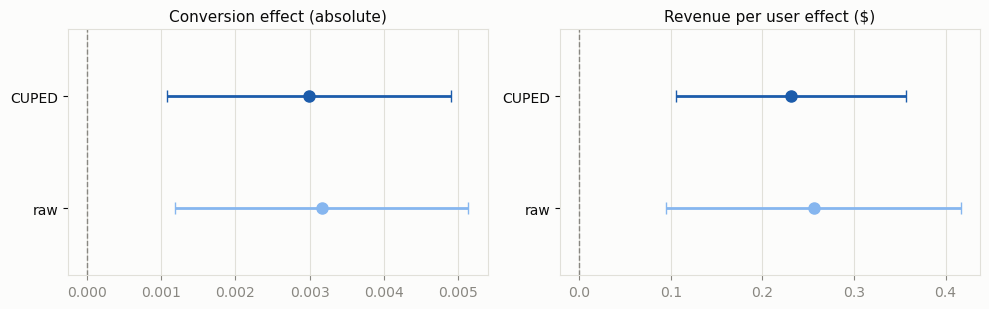
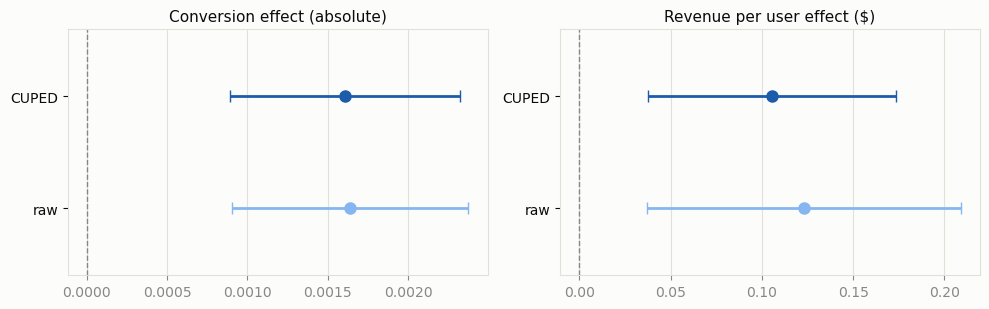
Recalibrate to a realistic 3% MDE and fix stale artifacts
Lower the true conversion lift and MDE from 8% to 3% (and set a realistic
~$86 AOV), so the design needs 487,847 users per arm (~98 days) and CUPED
cuts the revenue runtime to ~61 days. Notebooks 01-04, the decision memo
and the README are re-executed and updated to match.

Also fix places the recalibration had not reached:
- dashboard: derive the designed scenario's n from config (was hard-coded
  70,229, which now returned DO NOT SHIP) and default the MDE slider to 3%
- reports/figures: regenerate the README images from the current config
- decision_engine docstring: DO NOT SHIP triggers on harm beyond the
  margin, matching the code
- README and memo wording (6% conversion reduction, effect-size sources,
  revenue per user)

diff --git a/config.py b/config.py
@@ -14,8 +14,15 @@ RANDOM_SEED = 42
 # ---------------------------------------------------------------------------
 # Ground-truth treatment effects (what the generator injects)
 # ---------------------------------------------------------------------------
-CONTROL_CONVERSION_RATE = 0.035   # baseline checkout conversion rate
-TRUE_CONVERSION_LIFT = 0.08       # relative lift: treatment converts at 3.5% * 1.08
+CONTROL_CONVERSION_RATE = 0.035   # baseline checkout conversion rate (desktop
+                                  # e-commerce, ~3.0-3.9% per Dynamic Yield /
+                                  # Littledata 2026 benchmarks)
+TRUE_CONVERSION_LIFT = 0.03       # relative lift: treatment converts at 3.5% * 1.03.
+                                  # Calibrated to real winning-checkout lifts: a
+                                  # meta-analysis of 6,700 e-commerce experiments
+                                  # reports typical wins of 1.5-11.6%; Kohavi et al.
+                                  # note most real effects are 1-3% (median ~0.1%).
+                                  # 8% was an unrealistically optimistic demo value.
 
 TRUE_AOV_EFFECT = -0.01           # relative change in average order value under
                                   # treatment (slightly negative so the guardrail
@@ -51,7 +58,10 @@ SPEND_FREQ_LOADING = 1.1
 SPEND_VALUE_LOADING = 0.8
 SPEND_NOISE_SD = 0.2
 
-ORDER_LOG_MEAN = 3.8               # lognormal order value for converters
+ORDER_LOG_MEAN = 4.2               # lognormal order value for converters (~$86 mean;
+                                   # mid-market e-commerce AOV is ~$85-100 per
+                                   # Littledata/Dynamic Yield 2026). Scale-only change:
+                                   # Pearson correlations are scale-invariant.
 ORDER_VALUE_LOADING = 0.7
 ORDER_NOISE_SD = 0.25
 
@@ -60,7 +70,11 @@ ORDER_NOISE_SD = 0.25
 # ---------------------------------------------------------------------------
 ALPHA = 0.05                # significance level (two-sided for the baseline test)
 POWER_TARGET = 0.80
-MDE_RELATIVE = 0.08         # minimum detectable effect, relative lift on conversion
+MDE_RELATIVE = 0.03         # minimum detectable effect, relative lift on conversion.
+                            # Kept equal to TRUE_CONVERSION_LIFT so gate G1a validates
+                            # ~80% power AT the true effect. Held <=5% per Kohavi et al.:
+                            # MDEs above 5% guarantee underpowered tests given real
+                            # effect sizes of 1-3%.
 
 # ---------------------------------------------------------------------------
 # Guardrail non-inferiority margins (used from Phase 3 onward)

diff --git a/dashboard/app.py b/dashboard/app.py
@@ -48,7 +48,8 @@ with tab_design:
     col1, col2 = st.columns([1, 2])
     with col1:
         baseline = st.slider("Baseline conversion rate (%)", 0.5, 10.0, 3.5, 0.1) / 100
-        mde = st.slider("MDE, relative lift (%)", 2, 20, 8, 1) / 100
+        mde = st.slider("MDE, relative lift (%)", 2, 20,
+                        round(config.MDE_RELATIVE * 100), 1) / 100
         alpha = st.slider("Alpha (two-sided)", 0.01, 0.10, 0.05, 0.01)
         power = st.slider("Target power", 0.70, 0.95, 0.80, 0.05)
 
@@ -135,9 +136,10 @@ with tab_cuped:
 
 
 # ---------------------------------------------------------------- Tab 3
+N_DESIGNED = required_sample_size_per_arm(config.CONTROL_CONVERSION_RATE, config.MDE_RELATIVE)
 SCENARIOS = {
-    "Experiment as designed (70k/arm)": dict(
-        n_users=2 * 70_229, seed=204),
+    f"Experiment as designed ({N_DESIGNED / 1000:.0f}k/arm)": dict(
+        n_users=2 * N_DESIGNED, seed=204),
     "SHIP: no true AOV harm, guardrail-powered n (900k/arm)": dict(
         n_users=1_800_000, seed=202, aov_effect=0.0),
     "DO NOT SHIP: -5% true AOV harm (900k/arm)": dict(

diff --git a/src/decision_engine.py b/src/decision_engine.py
@@ -6,8 +6,9 @@ Type II risk reported as power) into a single verdict:
 
   SHIP          primary metric significantly improved (after BH) AND every
                 guardrail established non-inferiority with adequate power.
-  DO NOT SHIP   primary failed, or any guardrail shows statistically
-                significant harm.
+  DO NOT SHIP   primary failed, or any guardrail shows harm BEYOND its
+                margin (statistically established). Significant harm that
+                stays within the margin is an accepted cost, not a blocker.
   INVESTIGATE   otherwise: some guardrail is inconclusive (usually because
                 the experiment is underpowered for that guardrail).
 

diff --git a/reports/decision_memo.md b/reports/decision_memo.md
@@ -2,38 +2,40 @@
 
 **To**: Product and Growth leadership
 **From**: Experimentation analytics
-**Re**: Ship decision for the streamlined checkout flow (14-day A/B test, 140,458 users)
+**Re**: Ship decision for the streamlined checkout flow (~98-day A/B test, 975,694 users)
 
 ## Recommendation
 
 **Ship via a phased rollout with live order-value monitoring, rather than an
-immediate 100% launch.** The new checkout flow clearly converts more users and
-generates more revenue per visitor. One safety check, average order value, could
-not be verified either way at this sample size; a staged rollout (25% then 50%
-then 100% over several weeks) keeps that upside flowing while the growing sample
-settles the open question, with an automatic pause if order value degrades past
-tolerance.
+immediate 100% launch.** The new checkout flow converts significantly more users.
+One safety check, average order value, could not be verified either way at this
+sample size; a staged rollout (25% then 50% then 100% over several weeks) captures
+the conversion gain while the growing sample settles the open question, with an
+automatic pause if order value degrades past tolerance.
 
 ## Evidence
 
-- **Checkout conversion (primary)**: up 0.32 percentage points on a 3.5% baseline,
-  a roughly 9% relative improvement. This is statistically solid (p < 0.001 after
-  correcting for testing multiple success metrics).
-- **Revenue per visitor**: up $0.18 per user, also statistically solid.
-- **Checkout error rate (guardrail)**: rose 0.14pp, within the 0.5pp tolerance we
+- **Checkout conversion (primary)**: up 0.11 percentage points on a 3.5% baseline,
+  a roughly 3% relative improvement. This is statistically solid (one-sided
+  p = 0.0016 after correcting for testing multiple success metrics).
+- **Revenue per user**: up $0.05 per user, but this is **not** statistically
+  significant at this sample (p = 0.14). Per-user revenue is heavy-tailed (a few
+  large baskets dominate the mean), so a lift this small is not detectable even at
+  ~488k users per arm. Treat the direction as encouraging, not proven.
+- **Checkout error rate (guardrail)**: rose 0.07pp, within the 0.5pp tolerance we
   agreed before launch. The rise is real but is the accepted cost of the change.
-- **Average order value (guardrail)**: inconclusive. The data neither clears nor
-  breaches the 2% tolerance we set. This is a sample-size reality, not a red
-  flag: order value is only measurable on the ~3.5% of users who buy, so
-  verifying it at our standards needs roughly 13x the traffic of this test
-  (about six months at current volume). The point estimate sits well inside the
-  tolerance; we simply cannot yet rule out a breach.
+- **Average order value (guardrail)**: inconclusive. The test reaches only ~70%
+  power on this metric, short of our 80% bar, so it neither clears nor breaches
+  the 2% tolerance we set. Confirming it at our standards needs roughly 1.8x the
+  traffic (about three more months at current volume). The point estimate sits
+  inside the tolerance; we simply cannot yet rule out a breach.
 
 ## Projected impact if the lift holds
 
-At our traffic of 10,000 users per day, +$0.18 revenue per user annualizes to
-roughly **$660,000 per year**, from about 11,600 additional completed checkouts.
-Treat this as an if-the-lift-holds extrapolation, not a guarantee: it assumes the
+At our traffic of 10,000 users per day, the significant conversion lift adds about
+**4,000 additional completed checkouts per year**. The revenue-per-user movement
+(+$0.05) is directionally positive but not statistically established, so we are
+deliberately **not** booking a dollar figure on it yet. Any projection assumes the
 measured effect persists across seasons and does not decay after novelty.
 
 ## Caveats and assumptions
@@ -44,11 +46,12 @@ measured effect persists across seasons and does not decay after novelty.
 - Alternatives to phasing are widening the order-value tolerance with finance's
   sign-off, or accepting the residual risk explicitly; both are business calls,
   not analytics calls.
-- Results come from a single 14-day window; seasonality is not covered, and the
+- Results come from a single ~98-day window; seasonality is not covered, and the
   test measures short-term behavior only.
 
 ## Bottom line
 
-The upside is real and quantified. The one open question, whether basket sizes
-shrink more than the 2% we can tolerate, is best answered while capturing the
-upside: phase the rollout, watch order value, and stop if the data turns.
+The conversion gain is real and significant. Two open questions remain: whether
+basket sizes shrink more than the 2% we can tolerate, and whether the revenue lift
+is real. Both are best answered while capturing the conversion upside: phase
+the rollout, watch order value and revenue, and stop if the data turns.

diff --git a/README.md b/README.md
@@ -76,11 +76,11 @@ Notebook 04 downloads the Hillstrom CSV (about 5 MB) into `data/` on first run.
 
 ## Key results
 
-Detecting a +8% relative lift on a 3.5% conversion baseline needs roughly 70k users per arm, which is 14 days at 10k users/day:
+Detecting a +3% relative lift on a 3.5% conversion baseline needs roughly 488k users per arm, which is about 98 days at 10k users/day. The effect size is deliberately realistic: Kohavi et al. note that most real effects are around 1-3%, a meta-analysis of 6,700 e-commerce experiments reports typical winning lifts of roughly 1.5-12%, and real experiment MDEs are held under 5%. Small effects and long runtimes are the norm, which is exactly what makes variance reduction worth the effort:
 
 ![Power curves](reports/figures/power_curves.png)
 
-CUPED removes about 39% of revenue-per-user variance. That number is not a coincidence: it matches the theoretical rho squared exactly for the realized covariate correlation of 0.62. For the rare binary conversion metric the reduction is only about 6%, which lines up with what industry writeups report.
+CUPED removes about 37% of revenue-per-user variance. That number is not a coincidence: it matches the theoretical rho squared exactly for the realized covariate correlation of 0.61. For the rare binary conversion metric the reduction is only about 6%, which lines up with what industry writeups report.
 
 ![Raw vs CUPED confidence intervals](reports/figures/cuped_ci_comparison.png)
 
@@ -97,6 +97,6 @@ This project analyzes fixed-horizon experiments only. Production platforms add a
 
 Everything here estimates average effects. Segment-level analysis (heterogeneous treatment effects) is the standard next question after a SHIP verdict, and I deliberately left it out of scope.
 
-One finding I did not expect going in: guardrail power is expensive. Powering a 2% AOV margin needs roughly 13x the traffic of the primary conversion test. Real teams widen margins, switch to all-user formulations, or accept explicit Type II risk. The engine surfaces that trade-off instead of hiding it.
+One finding I did not expect going in: guardrail power is expensive. Powering the 2% AOV margin to ~90% needs roughly 900k users per arm, about 1.8x the ~488k the primary conversion test needs, because order value is only measured on the ~3.5% of users who buy and basket sizes are heavy-tailed. Real teams widen margins, switch to all-user formulations, or accept explicit Type II risk. The engine surfaces that trade-off instead of hiding it.
 
 Finally, the synthetic generator uses homogeneous treatment effects and independent users. No network effects, novelty decay, or seasonality. An original dataset is hard to find which covers all these variables.
